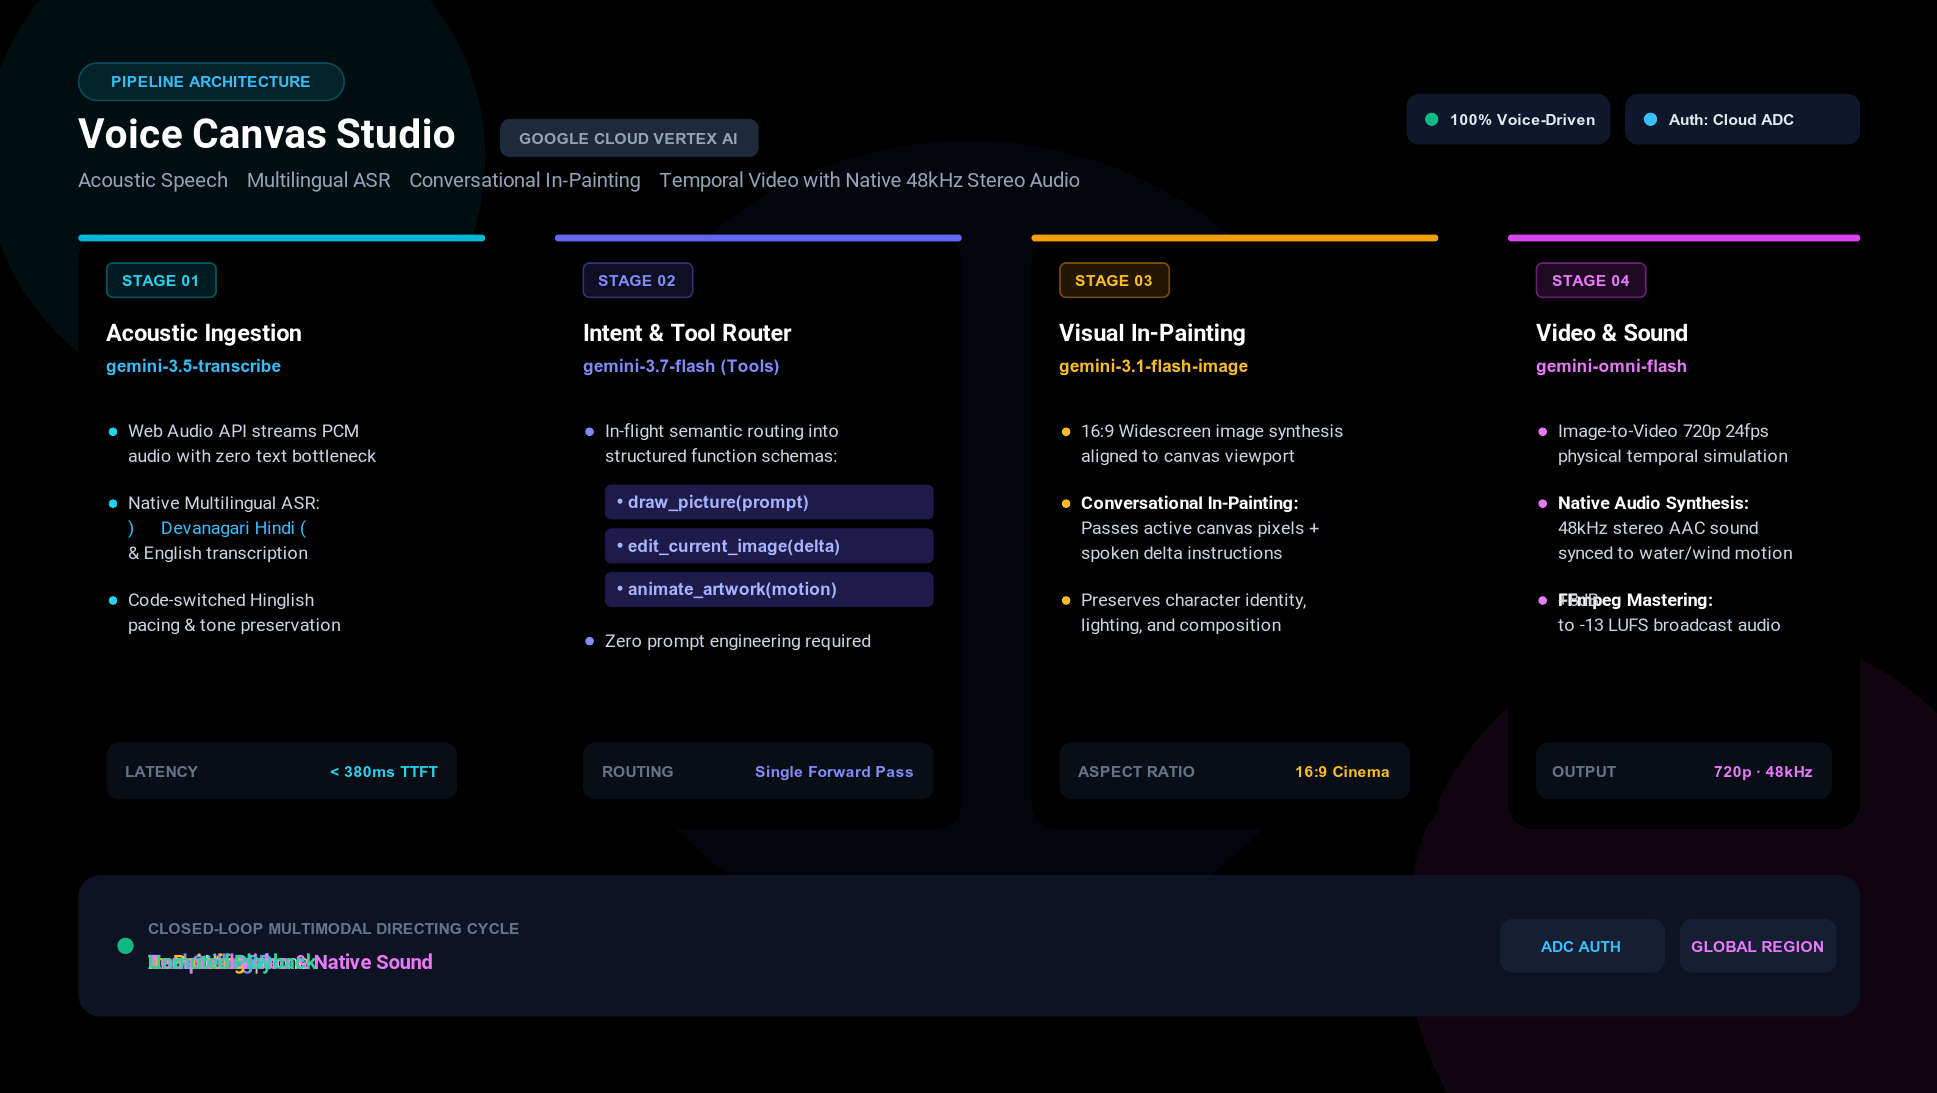
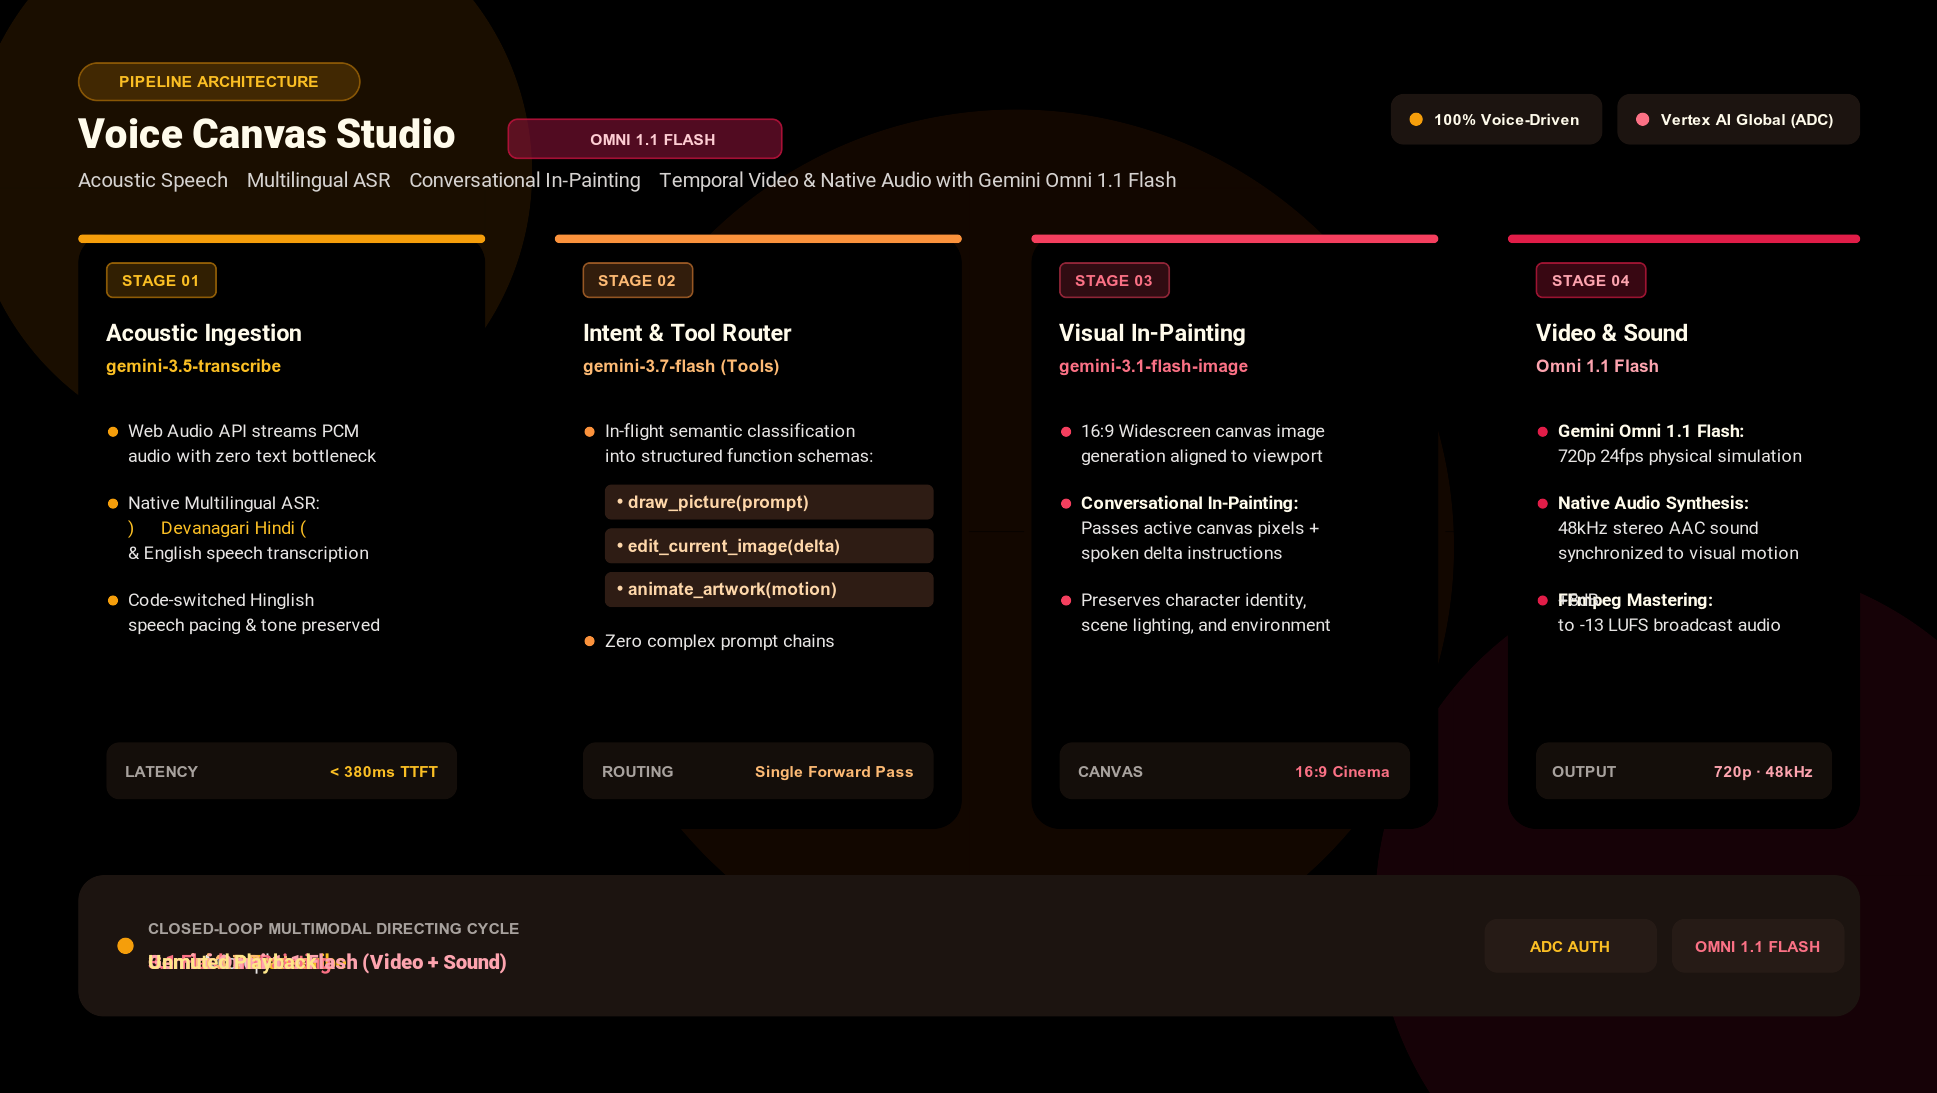
style: update architecture diagram with warm aesthetic palette and Gemini Omni 1.1 Flash

diff --git a/gemini35-voice-to-action/README.md b/gemini35-voice-to-action/README.md
@@ -2,7 +2,7 @@
 
 ### End-to-End Multimodal Creative Pipeline: Acoustic Voice ➡ Conversational Editing ➡ Temporal Video with Native Audio
 
-An end-to-end multimodal studio combining **Gemini 3.5 Transcribe**, **Gemini 3.7 Flash**, **Gemini 3.1 Flash Image**, and **Gemini Omni Flash** into a seamless, voice-driven creative canvas. Speak in English, Hindi, or code-switched Hinglish to sculpt images, iteratively edit them conversationally, and animate them into high-definition videos with synchronized ambient soundscapes.
+An end-to-end multimodal studio combining **Gemini 3.5 Transcribe**, **Gemini 3.7 Flash**, **Gemini 3.1 Flash Image**, and **Gemini Omni 1.1 Flash** into a seamless, voice-driven creative canvas. Speak in English, Hindi, or code-switched Hinglish to sculpt images, iteratively edit them conversationally, and animate them into high-definition videos with synchronized ambient soundscapes.
 
 ---
 
@@ -39,7 +39,7 @@ flowchart TD
     end
 
     subgraph Step4 ["4. Temporal Video & Native Sound Synthesis"]
-        GOmni["✨ Gemini Omni Flash\n(gemini-omni-flash-preview on Vertex AI Global)\n• Interactions API via ADC\n• Image-to-Video temporal motion\n• Native 48 kHz stereo ambient audio"]
+        GOmni["✨ Gemini Omni 1.1 Flash\n(gemini-omni-1.1-flash-preview on Vertex AI Global)\n• Interactions API via ADC\n• Image-to-Video temporal motion\n• Native 48 kHz stereo ambient audio"]
         FFmpeg["🔊 Audio Normalizer (FFmpeg)\n• Broadcast loudness mastering (-13 LUFS)\n• Crisp ambient soundscapes"]
     end
 
@@ -66,9 +66,9 @@ flowchart TD
 * Retains characters, camera angles, and composition while selectively applying edits (e.g. *"Now add a samurai helmet"*, *"Change the lighting to sunset dusk"*).
 * Built-in **Before / After Split-Screen** toggle to inspect edits against the original baseline.
 
-### 3. Temporal Video & Native Audio Generation via Gemini Omni Flash
-* Generates **1280x720 24fps** temporal video powered by `gemini-omni-flash-preview` on Vertex AI (`location="global"`).
-* **Native Audio Synthesis**: Unlike traditional video-only models, Omni synthesizes synchronized 48 kHz stereo ambient audio (flowing water, wind rustling, sci-fi hums).
+### 3. Temporal Video & Native Audio via Gemini Omni 1.1 Flash
+* Generates **1280x720 24fps** temporal video powered by `gemini-omni-1.1-flash-preview` on Vertex AI (`location="global"`).
+* **Native Audio Synthesis**: Unlike traditional video-only models, Omni 1.1 Flash synthesizes synchronized 48 kHz stereo ambient audio (flowing water, wind rustling, sci-fi hums).
 * Automated **FFmpeg +8dB Normalization** delivers loud, broadcast-quality sound in the browser.
 
 ### 4. 100% Google Cloud ADC (No API Keys Required)

diff --git a/gemini35-voice-to-action/LINKEDIN_POST.md b/gemini35-voice-to-action/LINKEDIN_POST.md
@@ -22,11 +22,11 @@ Classifies spoken intent in flight into function calls: `draw_picture(prompt)`, 
 3. Conversational Visual Sculpting (Gemini 3.1 Flash Image):
 Generates a 16:9 widescreen baseline. When you ask for changes ("add a wooden bridge over the river", "make the sky dusk"), it passes the active canvas pixels + delta instructions to edit in-place without wiping out composition or subject identity.
 
-4. Temporal Motion + Synchronized Sound (Gemini Omni Flash):
+4. Temporal Motion + Synchronized Sound (Gemini Omni 1.1 Flash):
 Say "Animate this with the sound of rushing water" (or in Hindi: "Ab iska video bana do with sound"). 
-`gemini-omni-flash-preview` takes the canvas frame and synthesizes not just 720p 24fps motion, but an accompanying 48 kHz stereo ambient soundscape in a single multimodal pass. 
+`gemini-omni-1.1-flash-preview` takes the canvas frame and synthesizes not just 720p 24fps motion, but an accompanying 48 kHz stereo ambient soundscape in a single multimodal pass. 
 
-The biggest surprise for me was the audio track. Omni doesn’t just guess motion vectors; it synthesizes natural environmental acoustics (waterfalls, wind physics, thunder) matching the visual tempo.
+The biggest surprise for me was the audio track. Omni 1.1 Flash doesn’t just guess motion vectors; it synthesizes natural environmental acoustics (waterfalls, wind physics, thunder) matching the visual tempo.
 
 Everything runs on Google Cloud Vertex AI using standard Application Default Credentials (ADC) — no consumer API keys or hacky workarounds.
 
@@ -35,10 +35,10 @@ Code, architecture diagram, and full video are open-source on GitHub:
 
 Curious how you see native audio-video generation reshaping interactive creative directing?
 
-#Gemini #GoogleCloud #VertexAI #MultimodalAI #GenerativeAI #MachineLearning #ComputerVision #VoiceAI #OpenSource
+#Gemini #GoogleCloud #VertexAI #Omni11Flash #MultimodalAI #GenerativeAI #MachineLearning #ComputerVision #VoiceAI #OpenSource
 
 ---
 
 ### Video / Visual to Attach to Post:
-* Attach `static/videos/omni_anim_boosted.mp4` (or the 3-second animated GIF preview `static/videos/omni_preview_compact.gif`).
-* In the caption, remind viewers to unmute the video to hear the native ambient audio synthesized by Omni Flash!
+* Attach `static/videos/omni_anim_boosted.mp4` (or the architecture diagram image `static/images/architecture_diagram.png`).
+* In the caption, remind viewers to unmute the video to hear the native ambient audio synthesized by Gemini Omni 1.1 Flash!
